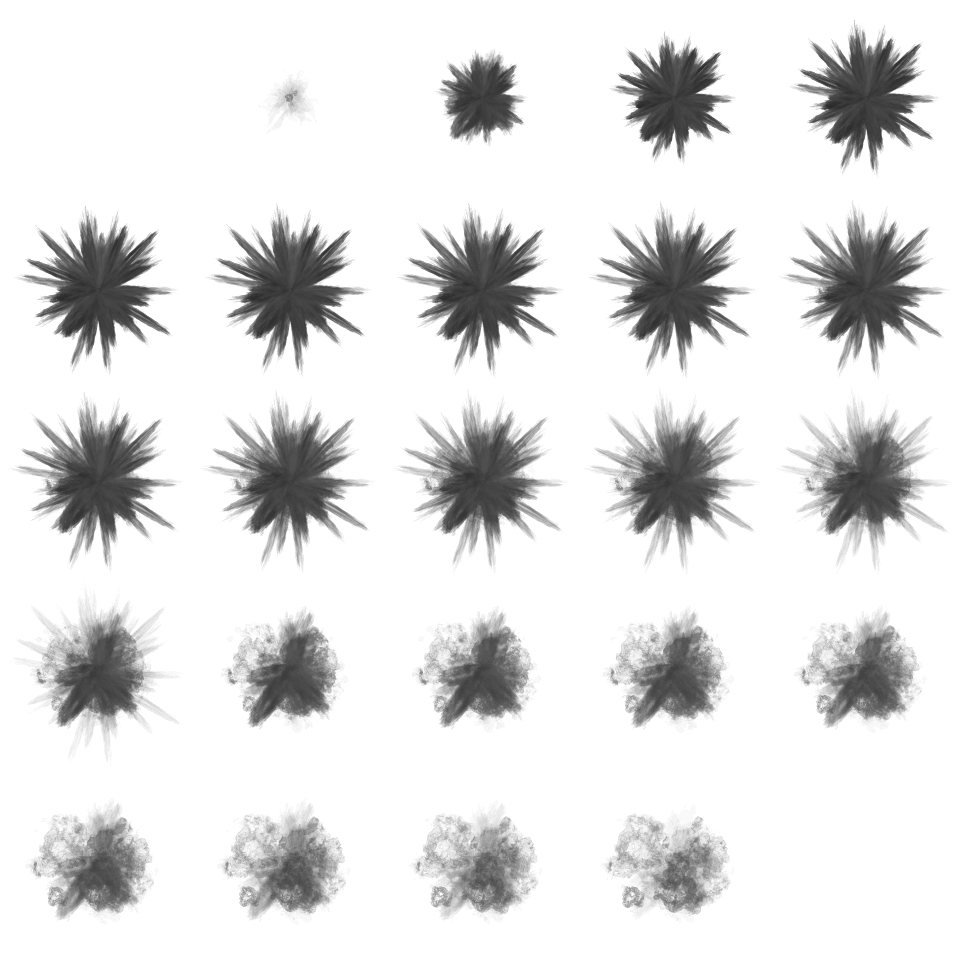
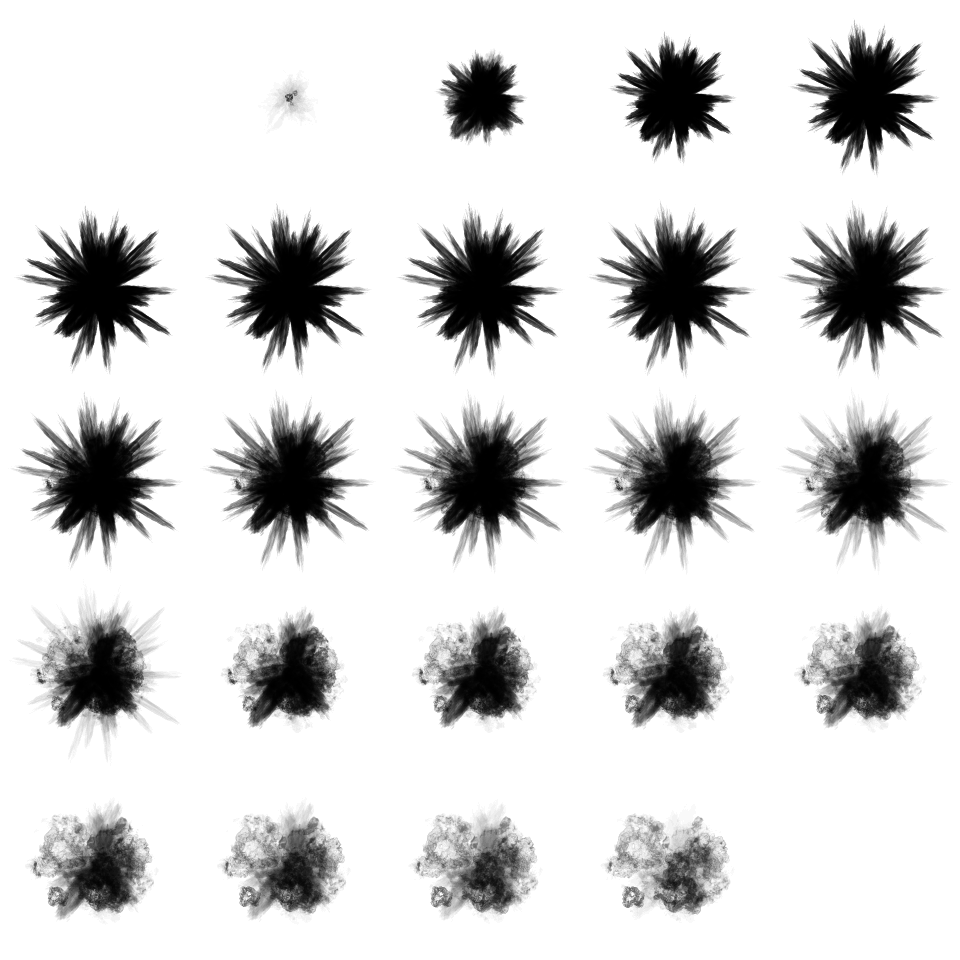
떨어지는 바위 먼지 효과 추가

diff --git a/Objective-D/FallingStone.cpp b/Objective-D/FallingStone.cpp
@@ -1,5 +1,6 @@
 #include "FallingStone.h"
 #include "PickingUtil.h"
+#include "Dust.h"
 
 void SendPtoMDamagePacket(unsigned int monsterID, int attackHp);
 void SendAttackObjectPacket(int id);
@@ -47,9 +48,9 @@ void FallingStone::Update(float Delta) {
 		}
 
 		float distance = Math::CalcDistance3D(position, camera.GetPosition());
-		float shakePower = 0.5 - distance * 0.001;
-		camera.AddShake(shakePower);
+		camera.AddShake(distance, 60.0, 120.0, 2.0, 0.5);
 
+		scene.AddObject(new Dust(position, { 30.0, 30.0, 30.0 }, { 100.0, 100.0, 100.0 }, RGB(115, 67, 16)), "dust", LAYER5);
 		scene.DeleteObject(this);
 	}
 }
@@ -96,7 +97,7 @@ void FallingStone::GiveDamage(int damage) {
 
 	if (!GLOBAL.useServer) {
 		hp -= damage;
-		if (hp <= 0)
+		if (hp <= 0) 
 			hp = 0;
 	}
 	else
@@ -104,5 +105,7 @@ void FallingStone::GiveDamage(int damage) {
 }
 
 void FallingStone::InputHP(int hp) {
+	if (this->hp == 0)
+		return;
 	this->hp = hp;
 }

diff --git a/Objective-D/Dust.cpp b/Objective-D/Dust.cpp
@@ -1,0 +1,31 @@
+#include "Dust.h"
+#include "CameraUtil.h"
+#include "MathUtil.h"
+
+Dust::Dust(const xmfloat3& createPosition, const xmfloat3& createSize, const xmfloat3& destSize, const xmfloat3& createColor) {
+	position = createPosition;
+	size = createSize;
+	sizeDest = destSize;
+	color = createColor;
+	currentPlayTime = 5.0;
+}
+
+void Dust::Update(float Delta) {
+	currentPlayTime += Delta * 10.0;
+	currentFrame = (int)currentPlayTime;
+	opacity -= Delta * 0.5;
+	Math::LerpXMFLOAT3(size, sizeDest, 4.0, Delta);
+
+	if (currentFrame > 24)
+		scene.DeleteObject(this);
+}
+
+void Dust::Render() {
+	Vector vec{};
+	BeginRender();
+	Transform::Move(TranslateMatrix, position);
+	Math::BillboardLookAt(RotateMatrix, vec, position, camera.GetPosition());
+	Transform::Scale(ScaleMatrix, size);
+	SetColor(color);
+	Render3D(SYSRES.BillboardMesh, TEX.smoke[currentFrame], opacity);
+}

diff --git a/Objective-D/DirectX_3D.h b/Objective-D/DirectX_3D.h
@@ -250,6 +250,16 @@ XMFLOAT3 operator - (const XMFLOAT3& Value);
 XMFLOAT3 operator * (const XMFLOAT3& Value, float MulValue);
 std::ostream& operator << (std::ostream& os, const XMFLOAT3& Value);
 
+#undef RGB
+
+inline XMFLOAT3 RGB(int R, int G, int B) {
+	float ConvR = (float)R / 255.0;
+	float ConvG = (float)G / 255.0;
+	float ConvB = (float)B / 255.0;
+
+	return XMFLOAT3(ConvR, ConvG, ConvB);
+}
+
 namespace Vec3 {
 	inline XMFLOAT3 XMVectorToFloat3(XMVECTOR& xmvVector) {
 		XMFLOAT3 xmf3Result;

diff --git a/Objective-D/Dust.h b/Objective-D/Dust.h
@@ -1,0 +1,19 @@
+#pragma once
+#include "Scene.h"
+
+class Dust : public GameObject {
+private:
+	xmfloat3 position{};
+	xmfloat3 size{};
+	xmfloat3 sizeDest{};
+	xmfloat3 color{};
+	float currentPlayTime{};
+	int   currentFrame{};
+	float opacity{1.0};
+	
+public:
+	Dust(const xmfloat3& createPosition, const xmfloat3& createSize, const xmfloat3& destSize, const xmfloat3& createColor);
+	void Update(float Delta) override;
+	void Render() override;
+};
+
